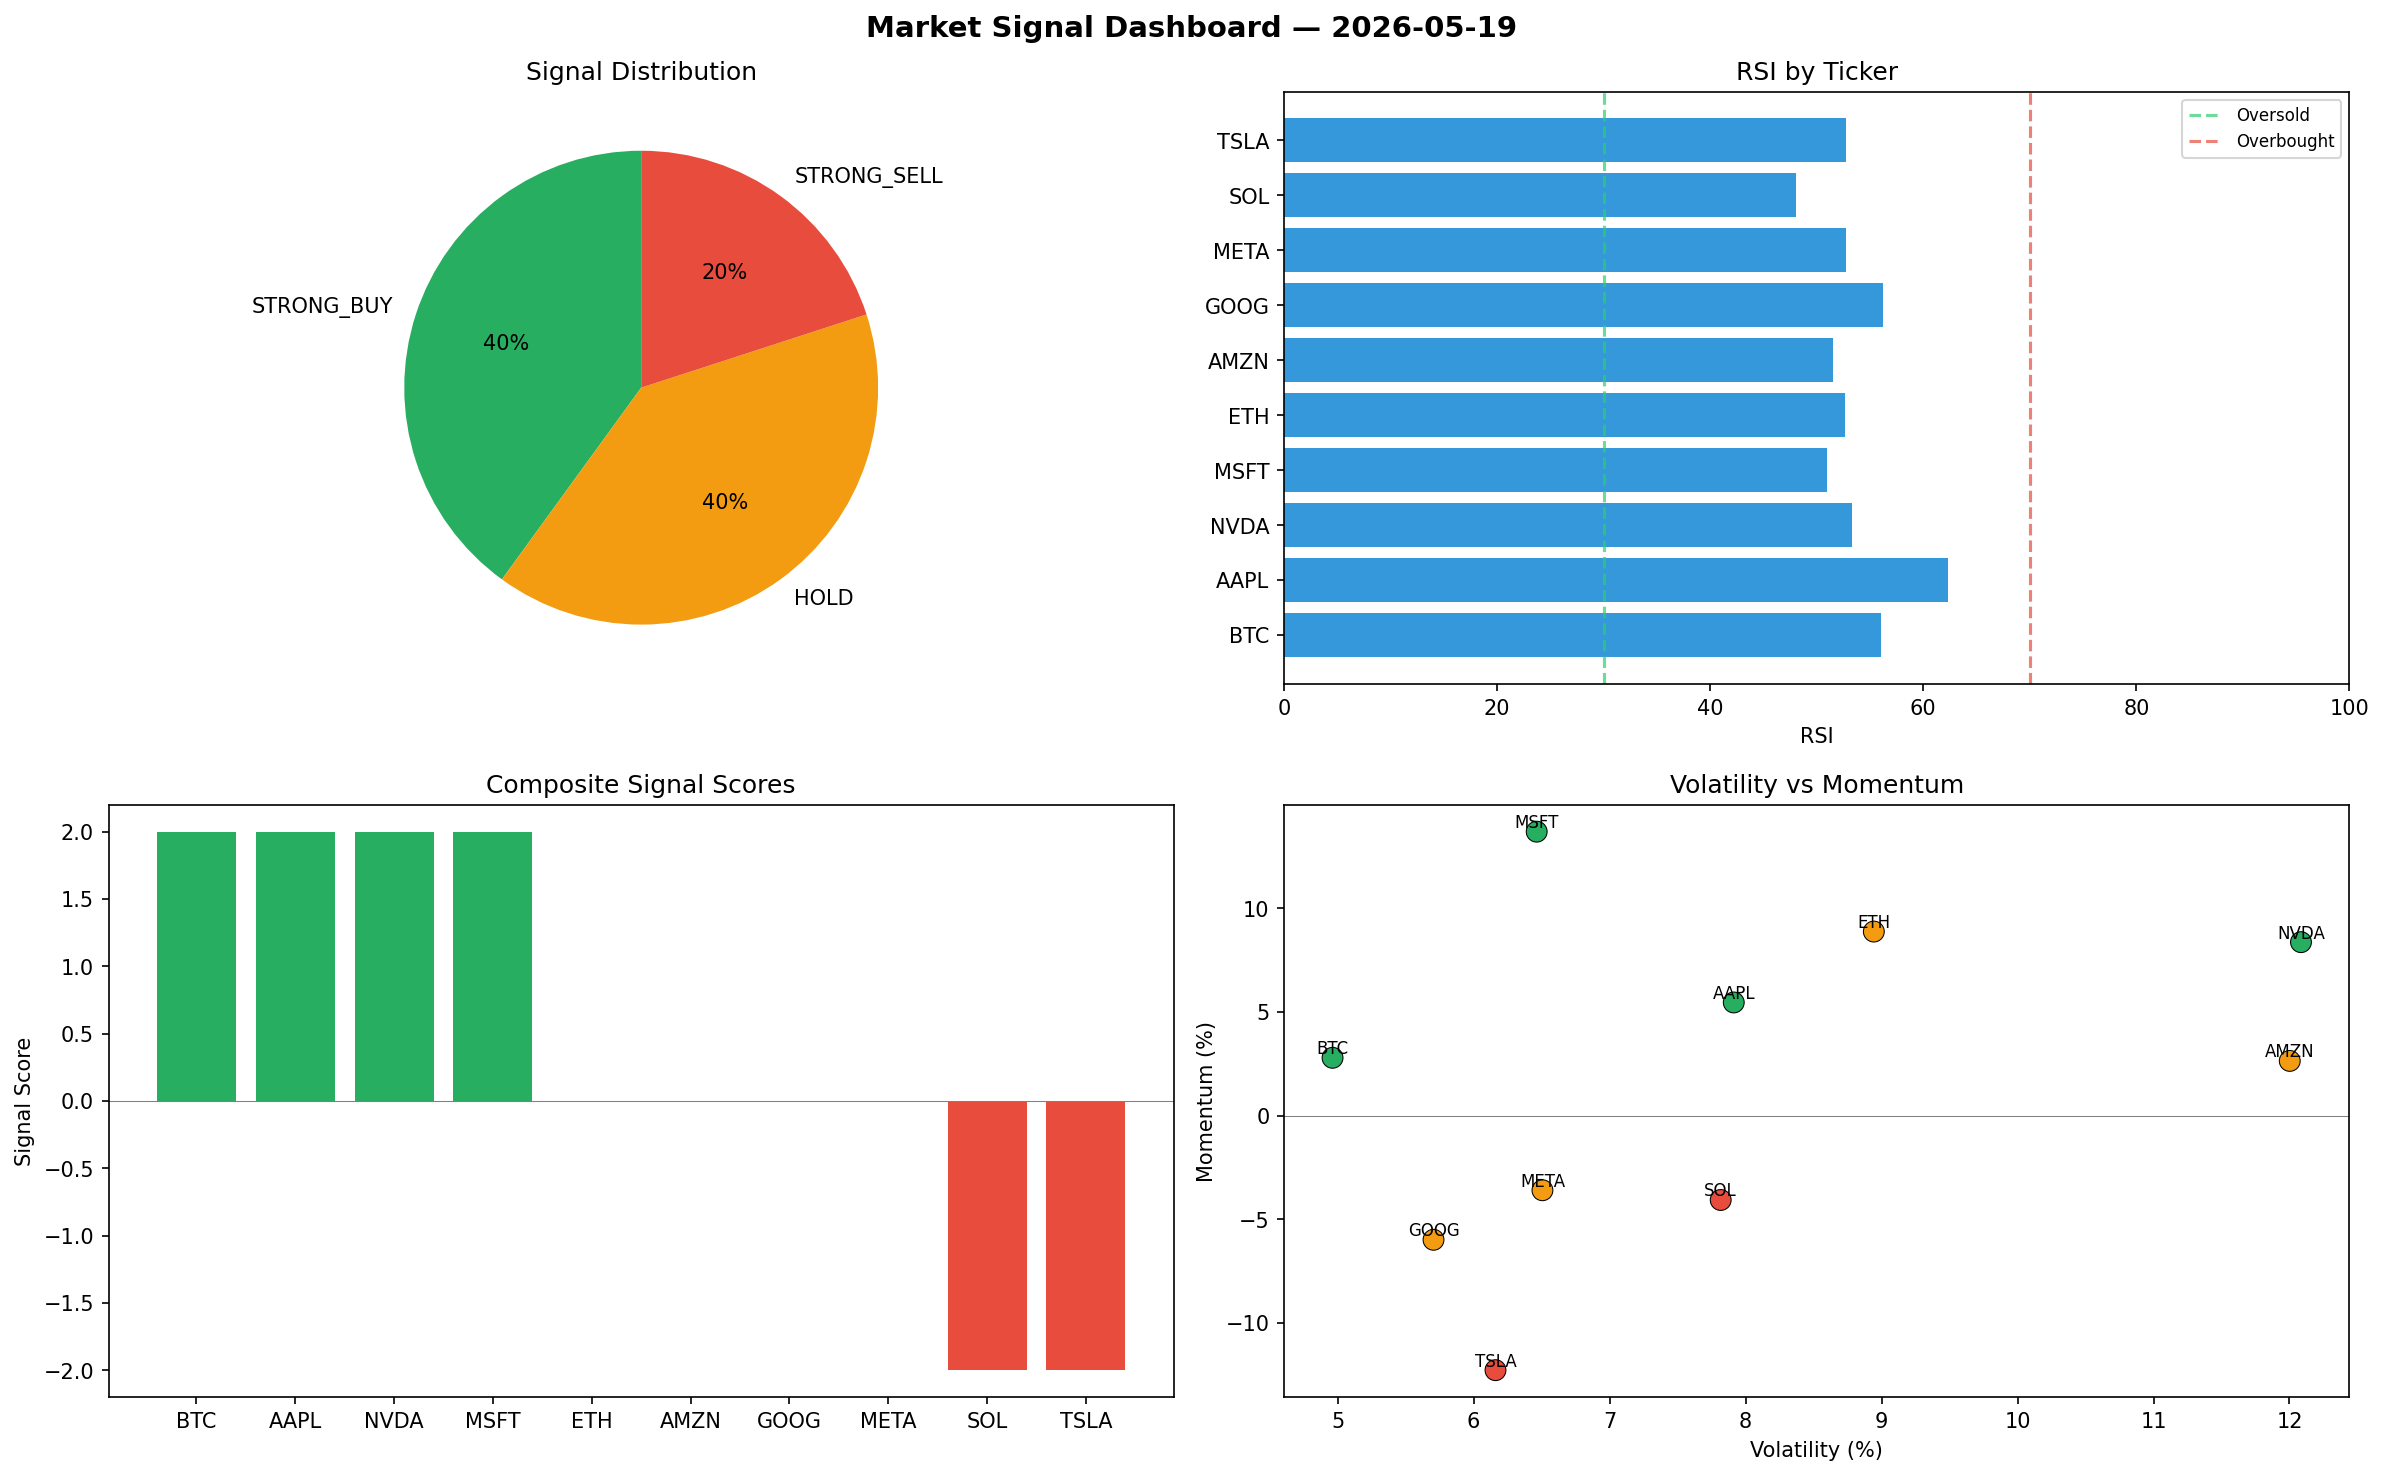
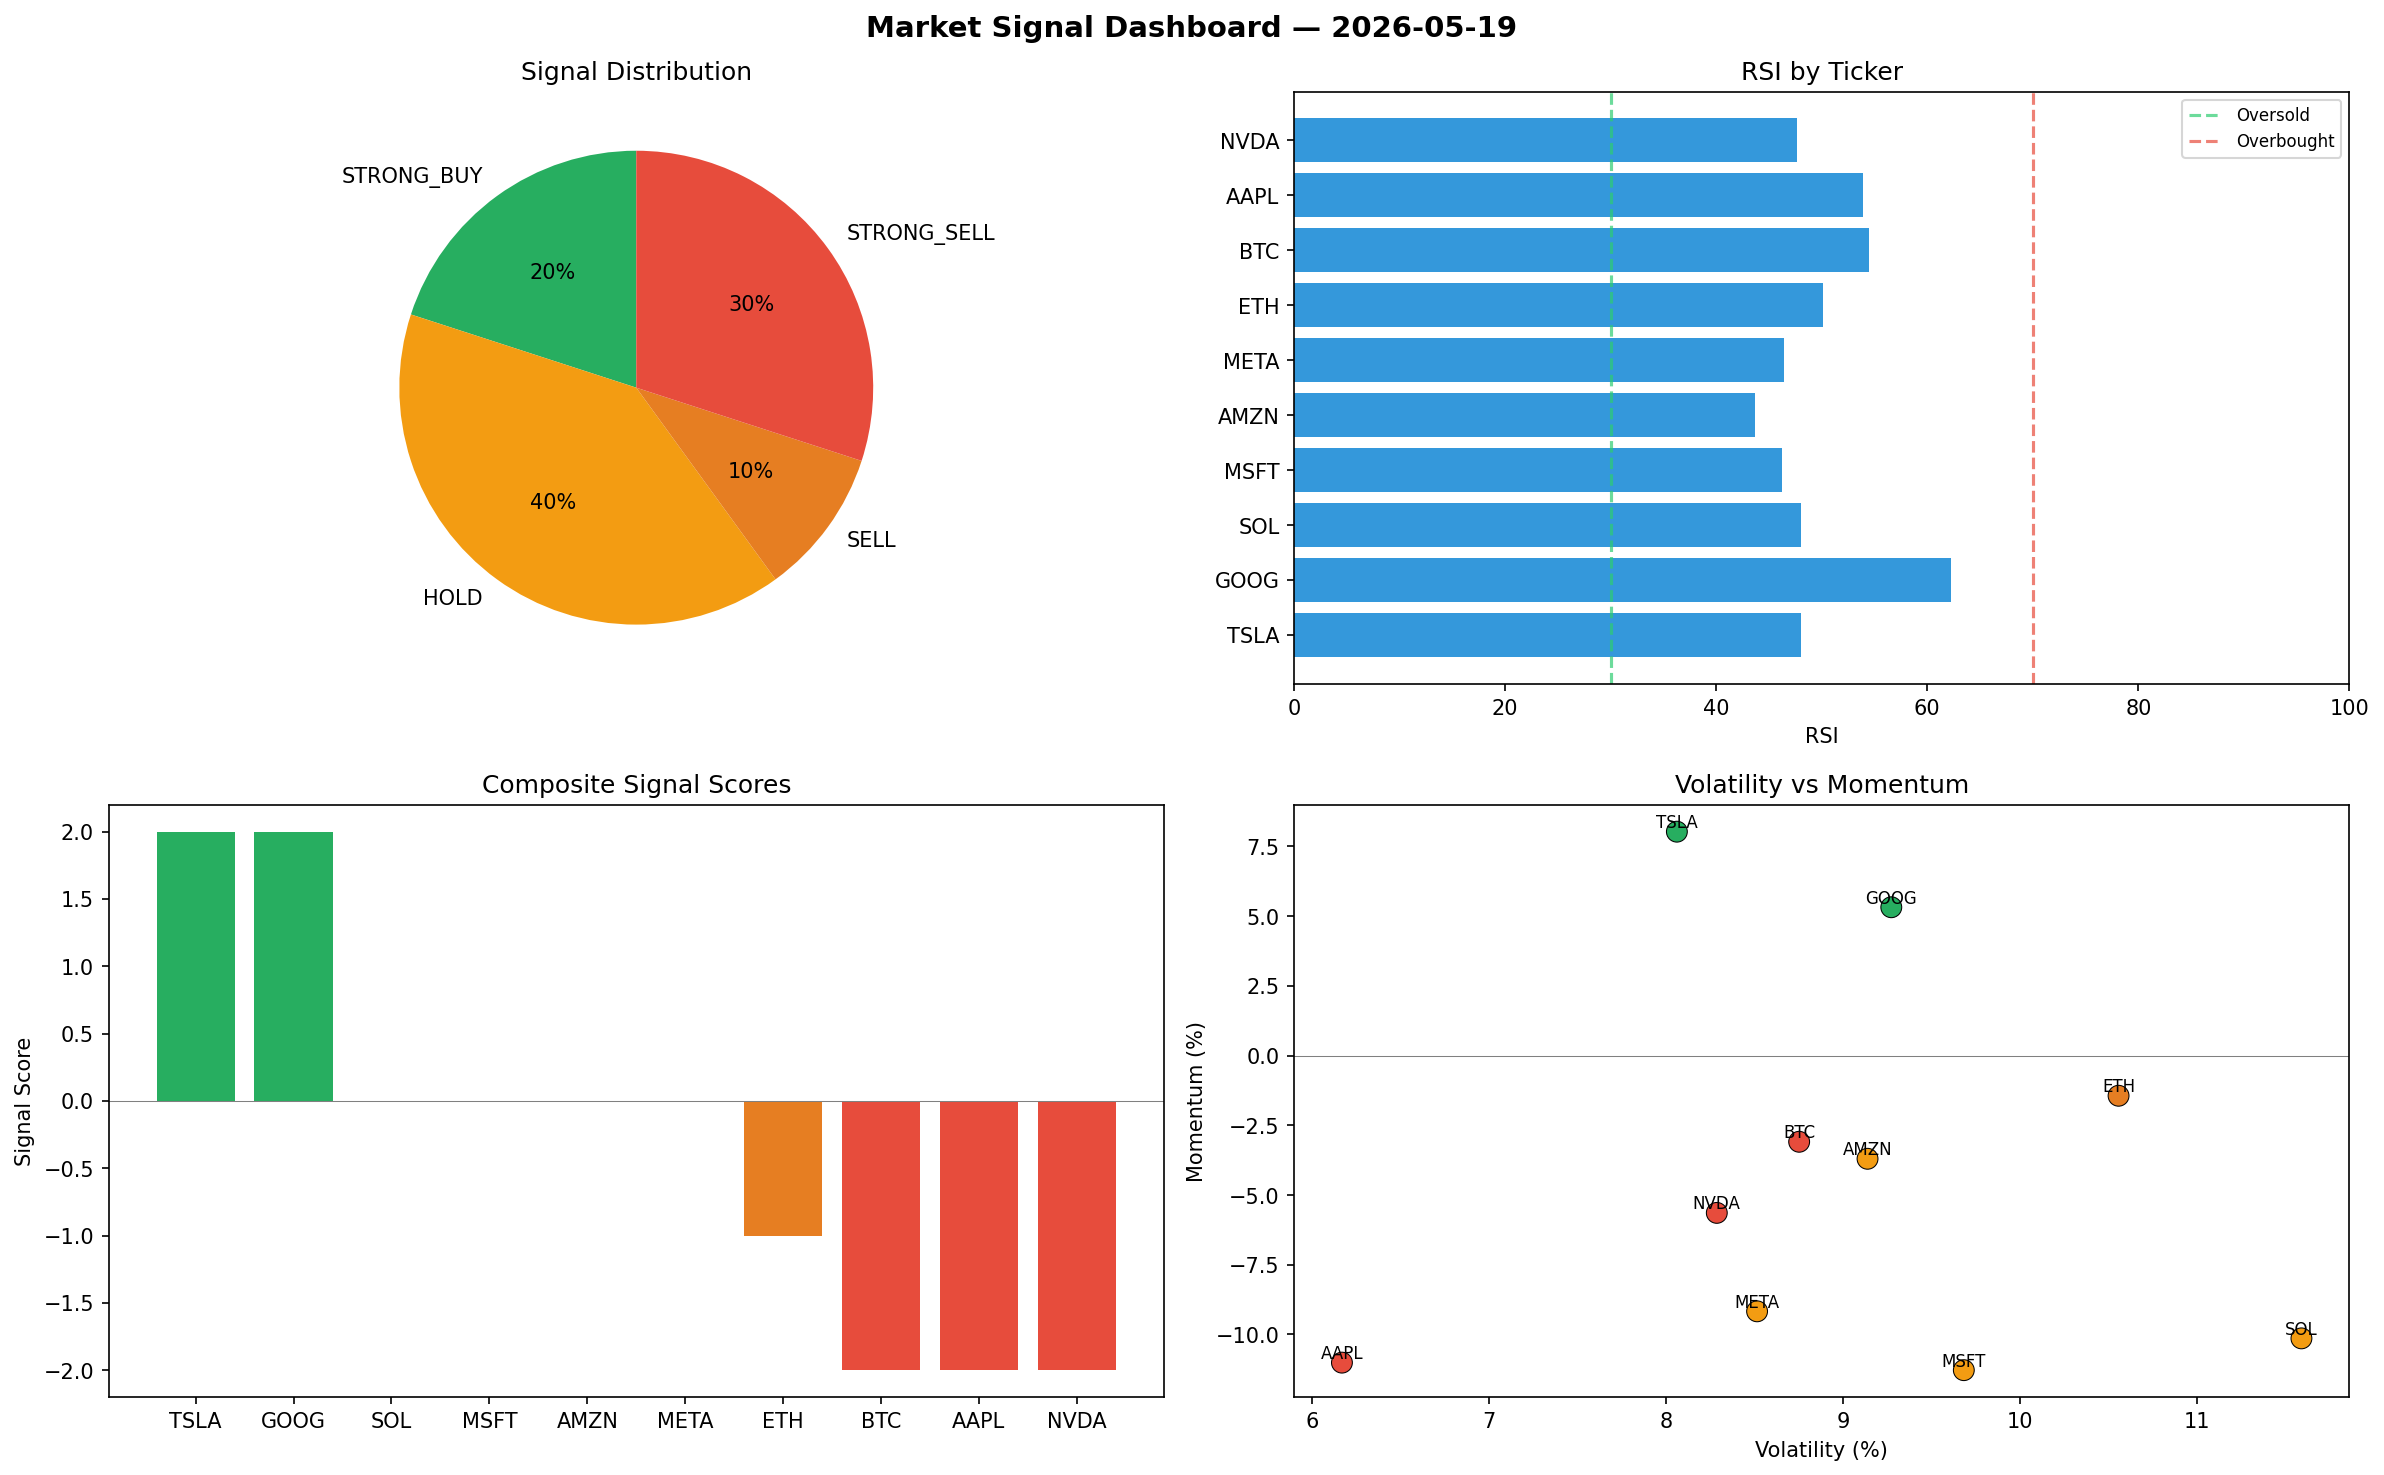
automated-bots: market signals 2026-05-19T11:37

diff --git a/logs/2026-05-19.md b/logs/2026-05-19.md
@@ -1,6 +1,6 @@
 # Market Signal Report — 2026-05-19
 
-**Run ID:** `140ec80892` | **Buy:** 4 | **Sell:** 2 | **Hold:** 4
+**Run ID:** `0e6f3692e5` | **Buy:** 2 | **Sell:** 4 | **Hold:** 4
 
 ![Dashboard](2026-05-19_dashboard.png)
 
@@ -8,28 +8,28 @@
 
 | Ticker | Price | Signal | Score | RSI | Momentum | Confidence |
 |--------|-------|--------|-------|-----|----------|------------|
-| BTC | $1869.27 | **STRONG_BUY** | 2 | 56.0 | 0.0279 | 0.5 |
-| AAPL | $1858.51 | **STRONG_BUY** | 2 | 62.33 | 0.0546 | 0.5 |
-| NVDA | $349.5 | **STRONG_BUY** | 2 | 53.3 | 0.0837 | 0.5 |
-| MSFT | $1903.03 | **STRONG_BUY** | 2 | 50.94 | 0.137 | 0.5 |
-| ETH | $834.78 | **HOLD** | 0 | 52.65 | 0.0888 | 0.0 |
-| AMZN | $1719.89 | **HOLD** | 0 | 51.54 | 0.0264 | 0.0 |
-| GOOG | $2236.74 | **HOLD** | 0 | 56.18 | -0.0599 | 0.0 |
-| META | $2148.39 | **HOLD** | 0 | 52.77 | -0.036 | 0.0 |
-| SOL | $2669.47 | **STRONG_SELL** | -2 | 48.05 | -0.0407 | 0.5 |
-| TSLA | $3217.24 | **STRONG_SELL** | -2 | 52.72 | -0.1228 | 0.5 |
+| TSLA | $128.72 | **STRONG_BUY** | 2 | 48.05 | 0.0803 | 0.5 |
+| GOOG | $4488.77 | **STRONG_BUY** | 2 | 62.25 | 0.0532 | 0.5 |
+| SOL | $2372.22 | **HOLD** | 0 | 48.02 | -0.1014 | 0.0 |
+| MSFT | $1733.59 | **HOLD** | 0 | 46.21 | -0.1128 | 0.0 |
+| AMZN | $278.0 | **HOLD** | 0 | 43.69 | -0.037 | 0.0 |
+| META | $3200.75 | **HOLD** | 0 | 46.39 | -0.0917 | 0.0 |
+| ETH | $4336.49 | **SELL** | -1 | 50.1 | -0.0144 | 0.25 |
+| BTC | $2477.34 | **STRONG_SELL** | -2 | 54.46 | -0.0309 | 0.5 |
+| AAPL | $3982.98 | **STRONG_SELL** | -2 | 53.88 | -0.1101 | 0.5 |
+| NVDA | $779.41 | **STRONG_SELL** | -2 | 47.64 | -0.0564 | 0.5 |
 
 ## Delta vs Yesterday
 
 | Ticker | Today | Yesterday | Price Change | Signal Changed |
 |--------|-------|-----------|-------------|----------------|
-| BTC | STRONG_BUY | HOLD | 📈 727.18% | ⚠ YES |
-| AAPL | STRONG_BUY | HOLD | 📈 149.44% | ⚠ YES |
-| NVDA | STRONG_BUY | STRONG_BUY | 📉 -80.29% | — |
-| MSFT | STRONG_BUY | STRONG_BUY | 📉 -53.88% | — |
-| ETH | HOLD | BUY | 📉 -77.74% | ⚠ YES |
-| AMZN | HOLD | STRONG_SELL | 📉 -47.07% | ⚠ YES |
-| GOOG | HOLD | STRONG_SELL | 📈 27.82% | ⚠ YES |
-| META | HOLD | HOLD | 📉 -42.29% | — |
-| SOL | STRONG_SELL | BUY | 📉 -36.08% | ⚠ YES |
-| TSLA | STRONG_SELL | HOLD | 📉 -26.07% | ⚠ YES |
+| TSLA | STRONG_BUY | HOLD | 📉 -97.04% | ⚠ YES |
+| GOOG | STRONG_BUY | STRONG_SELL | 📈 156.51% | ⚠ YES |
+| SOL | HOLD | BUY | 📉 -43.2% | ⚠ YES |
+| MSFT | HOLD | STRONG_BUY | 📉 -57.98% | ⚠ YES |
+| AMZN | HOLD | STRONG_SELL | 📉 -91.44% | ⚠ YES |
+| META | HOLD | HOLD | 📉 -14.02% | — |
+| ETH | SELL | BUY | 📈 15.66% | ⚠ YES |
+| BTC | STRONG_SELL | HOLD | 📈 996.27% | ⚠ YES |
+| AAPL | STRONG_SELL | HOLD | 📈 434.58% | ⚠ YES |
+| NVDA | STRONG_SELL | STRONG_BUY | 📉 -56.06% | ⚠ YES |
